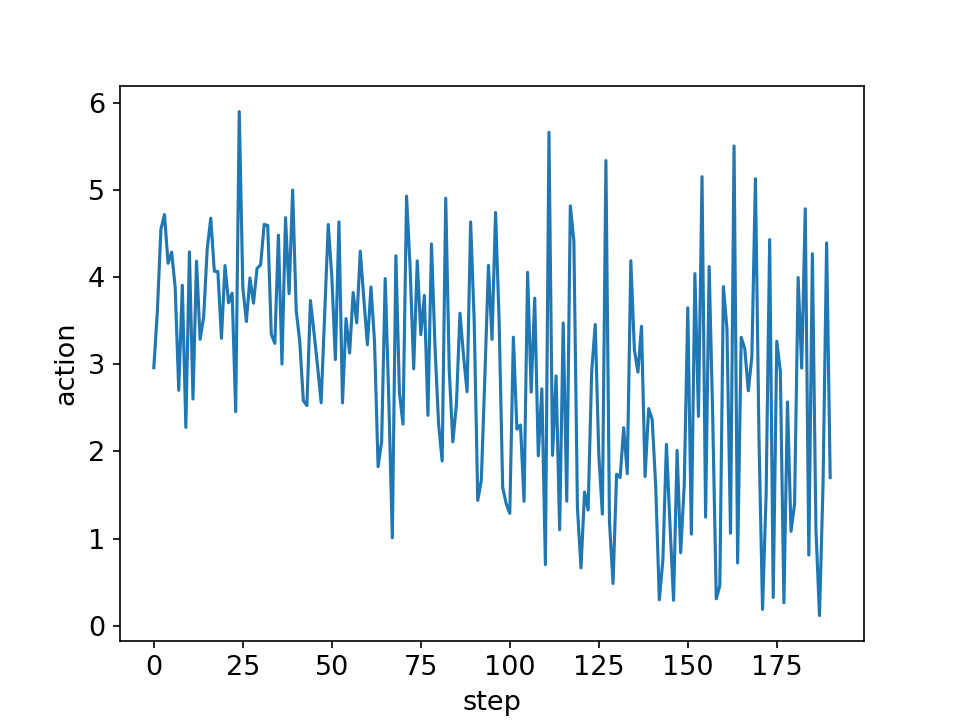
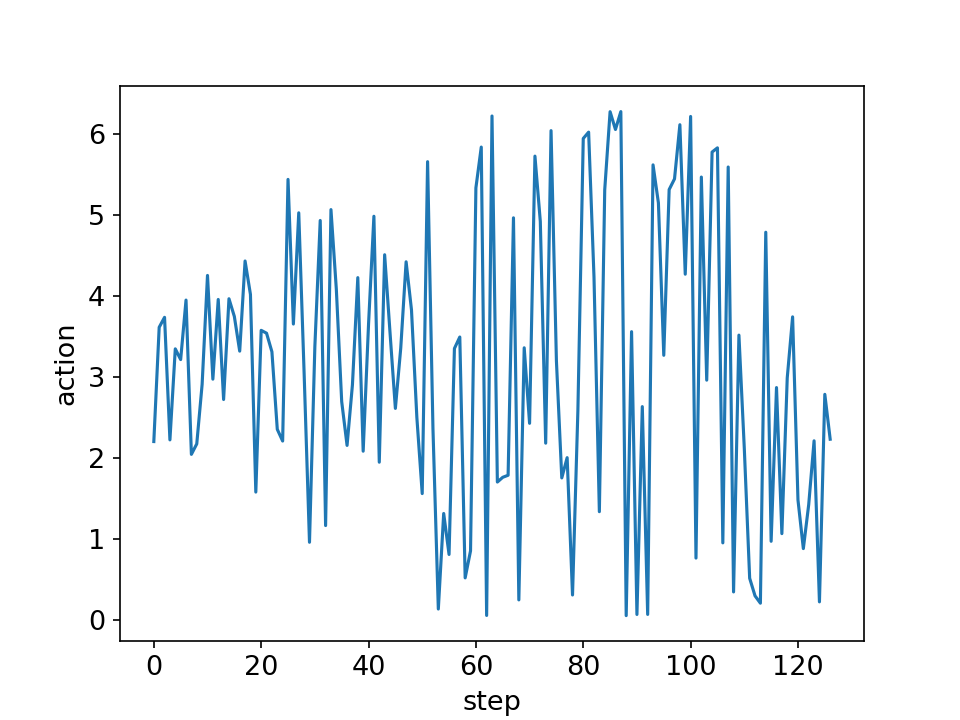
theta no longer in state space

diff --git a/environments.py b/environments.py
@@ -8,9 +8,9 @@ class BoxEnvironment1(gym.Env):
         self.space = space
         self.goal = goal
     
-    def init_state(self, agent_batch_size):
+    def init_state(self, agent_batch_size, state_dim):
         self.agent_batch_size = agent_batch_size
-        self.state = np.zeros((agent_batch_size,5))
+        self.state = np.zeros((agent_batch_size,state_dim))
         self.state[:,0] = -0.5*np.ones(agent_batch_size)
 
     def step(self, action, U0, dt, characteristic_length = 1):
@@ -36,13 +36,20 @@ class BoxEnvironment1(gym.Env):
         self.state[:,1][inside_space] = y_new[inside_space]
         self.state[:,2] = F_x
         self.state[:,3] = F_y
-        self.state[:,4] = theta
+        # self.state[:,4] = theta
 
-    def reward(self, dt):
         # Compute reward
-        reward = -dt*np.ones(self.state.shape[0])/100
+        reward = self.reward(dt, int(not inside_space))
+
+        return reward
+    
+    def reward(self, dt, not_inside_space):
+        # Compute reward
+        reward = -dt*np.ones(self.state.shape[0])
         wincondition = int(self.goal_check())
         reward += wincondition*100
+        reward -= not_inside_space*10
+
         return reward
     
     def goal_check(self):

diff --git a/log_utils.py b/log_utils.py
@@ -14,7 +14,6 @@ class RLLogger():
 
     def save_state(self, state):
         self.states.append(copy.deepcopy(state))
-        # print(self.states)
 
     def save_episode(self, steps):
         self.episode_states.append(self.states[-steps:])
